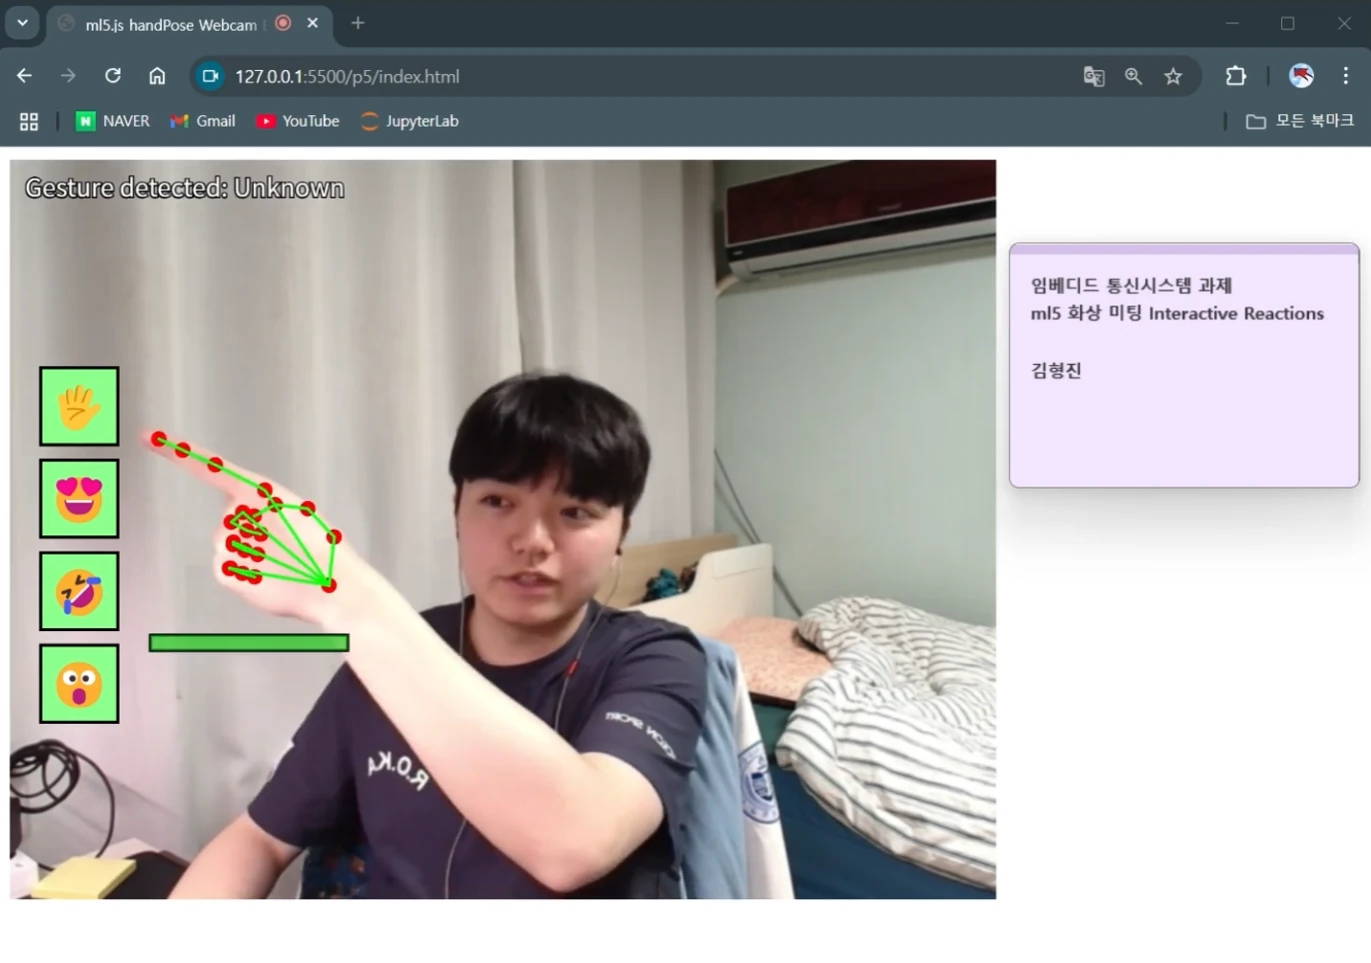
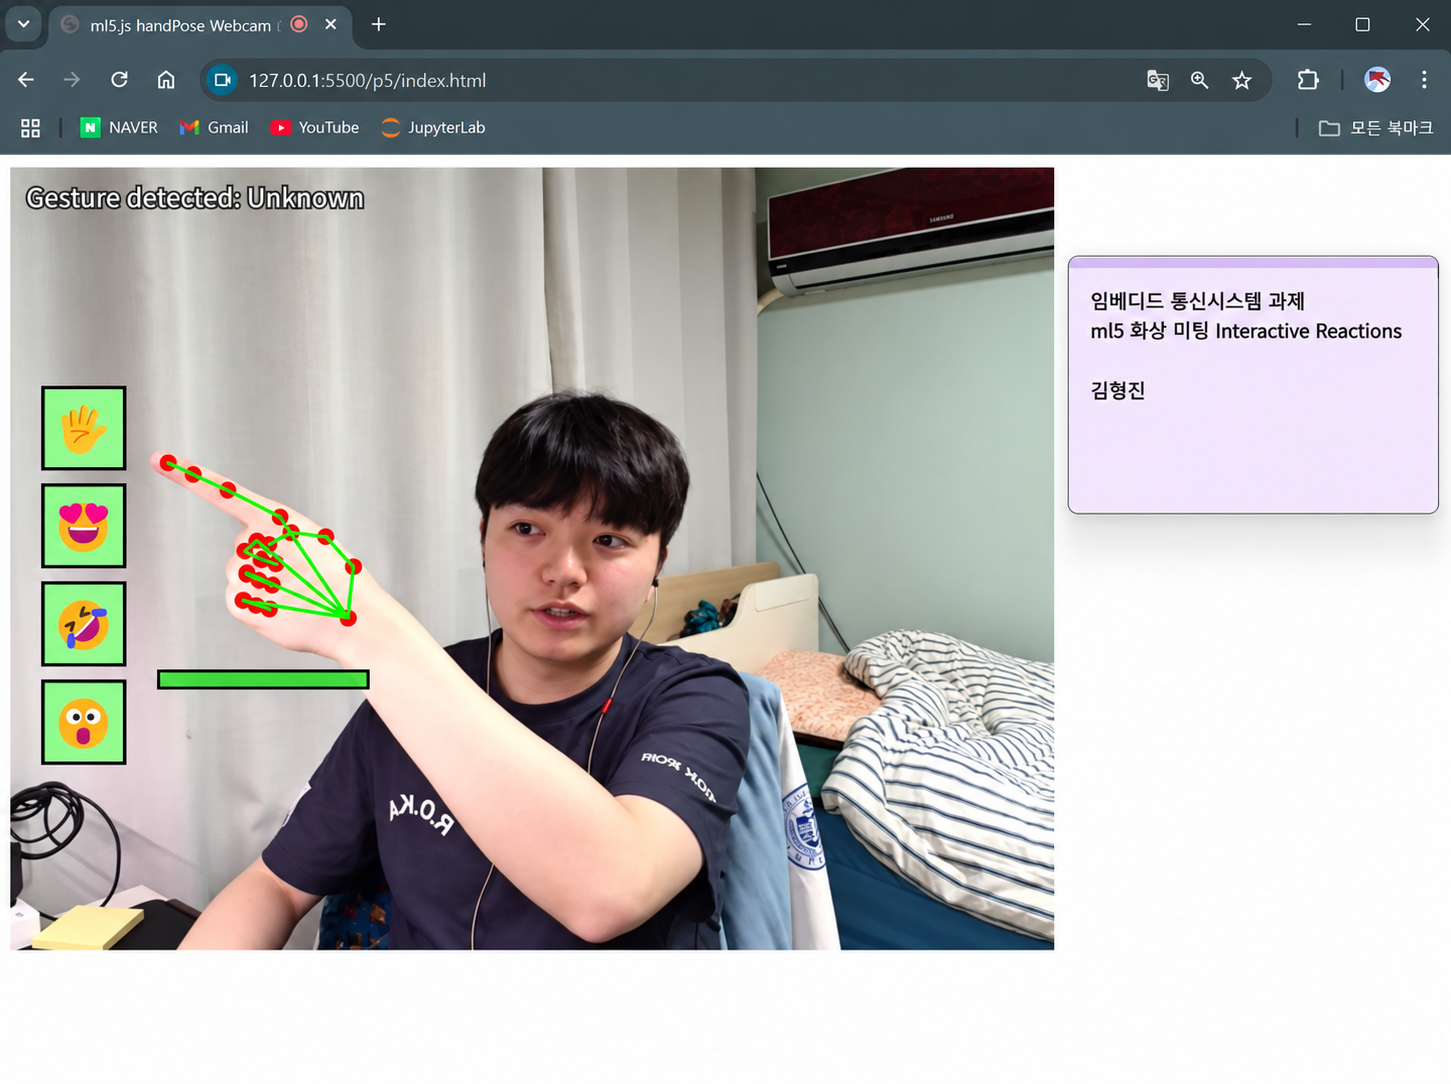
Replace virtual gesture interface project screenshot

diff --git a/_portfolio/virtual-gesture-interface-board.md b/_portfolio/virtual-gesture-interface-board.md
@@ -13,7 +13,7 @@ technologies:
 - ml5.js HandPose
 - Webcam
 - OBS
-image: /images/projects/virtual-gesture-interface-board.webp
+image: /images/projects/virtual-gesture-interface-board.webp?v=e8fdab9d2441
 image_alt: Virtual Gesture Interface Board — project image
 external_url: https://github.com/EliseEgkart/ECS_Interactive_Reactions
 external_label: View GitHub repository
